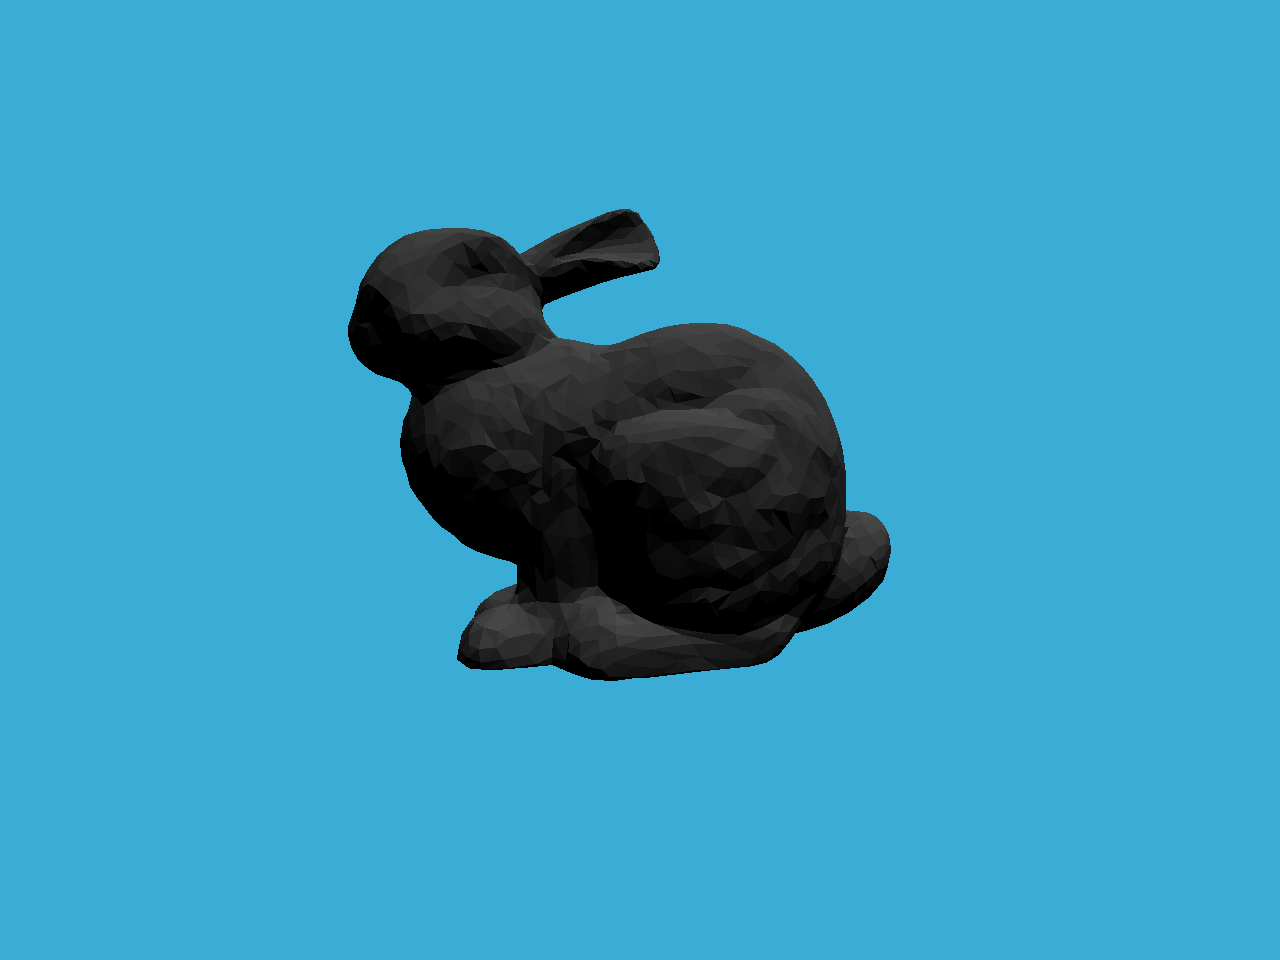
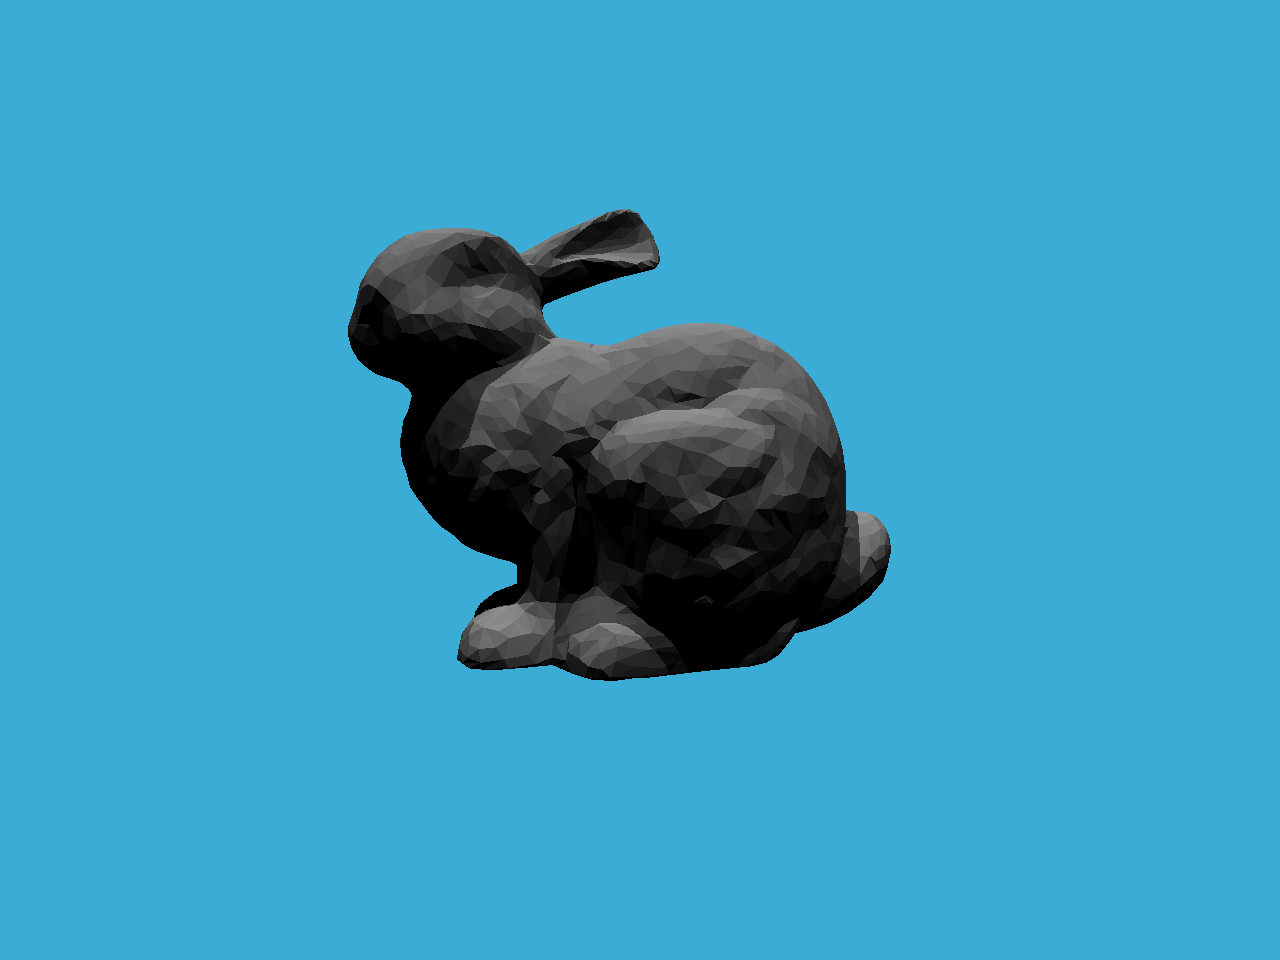
Games 101:update hw6 : fixed coord interolate result

diff --git a/Games 101/homework/Games101_Homework/Assignment_6/Triangle.hpp b/Games 101/homework/Games101_Homework/Assignment_6/Triangle.hpp
@@ -243,7 +243,11 @@ inline Intersection Triangle::getIntersection(Ray ray)
     inter.distance = t_tmp;
     inter.obj = this;
     inter.m = this -> m;
-    inter.coords = std::move(getInterpolateResult(t0, t1, t2));
+    //inter.coords = std::move(getInterpolateResult(t0, t1, t2));
+    inter.coords = std::move(getInterpolateResult(v0, v1, v2));
+    //std::cout << "\n";
+    //std::cout << "v: " << v0 << " " << v1 << " " << v2 << std::endl;
+    //std::cout << "t: " << t0 << " " << t1 << " " << t2 << std::endl;
     inter.normal = normal;
 
 
